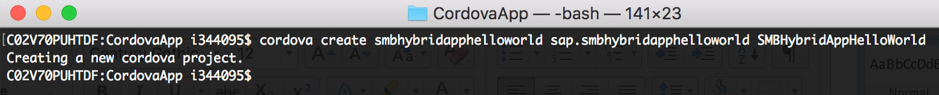
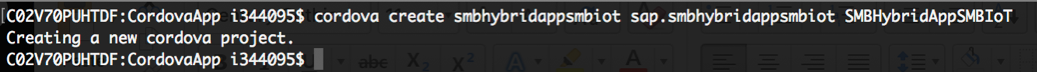
iot update

diff --git a/iot/README.md b/iot/README.md
@@ -27,17 +27,32 @@ From the mobile phone, you have the option to configure an IoT platform (SAP Clo
 
 Make sure you have completed the prerequisite before applying the following steps.
 1. Git clone or download this SAPUI5 web app package (smb.io/iot).
-2. Prepare a cordova package to your own namespace identifier.
-cordova create <folder-name> <namespace-identifier-of-your-app> <app-name-or-project-name>
+2. Prepare a cordova package to your own namespace identifier using terminal / command prompt.
 ```sh
-$ cordova create smbhybridapphelloworld sap.smbhybridapphelloworld SMBHybridAppHelloWorld
+Syntax as follows:
+$ cordova create <folder-name> <namespace-identifier-of-your-app> <app-name-or-project-name>
+```
+```sh
+$ cordova create smbhybridappsmbiot sap.smbhybridappsmbiot SMBHybridAppSMBIoT
 ```
 ![](https://github.com/jacobtan89/smb.io/blob/master/archive/media/iot-1.png)
-![](https://github.com/jacobtan89/smb.io/blob/master/archive/media/iot-2.png)
-3. Copy & paste the contents in the web app package into the cordova folder.
+3. Copy & paste the contents in the web app package into the cordova app's www folder & replace contents.
+![](https://github.com/jacobtan89/smb.io/blob/master/archive/media/iot-6.png)
 4. Download the plugins.
+```sh
+$ cordova plugin add cordova-plugin-geolocation cordova-plugin-ble cordova-plugin-dialogs cordova-plugin-document-viewer cordova-plugin-inappbrowser cordova-plugin-device
+```
+![](https://github.com/jacobtan89/smb.io/blob/master/archive/media/iot-7.png)
 5. Run Cordova commands to add device.
+```sh
+$ cordova platform add ios
+$ cordova platform add android
+```
+![](https://github.com/jacobtan89/smb.io/blob/master/archive/media/iot-4.png)
 6. Open your project in either OS dependent IDE.
+![](https://github.com/jacobtan89/smb.io/blob/master/archive/media/iot-8.png)
+![](https://github.com/jacobtan89/smb.io/blob/master/archive/media/iot-9.png)
+
 7. Run the project.
 
 ## References
